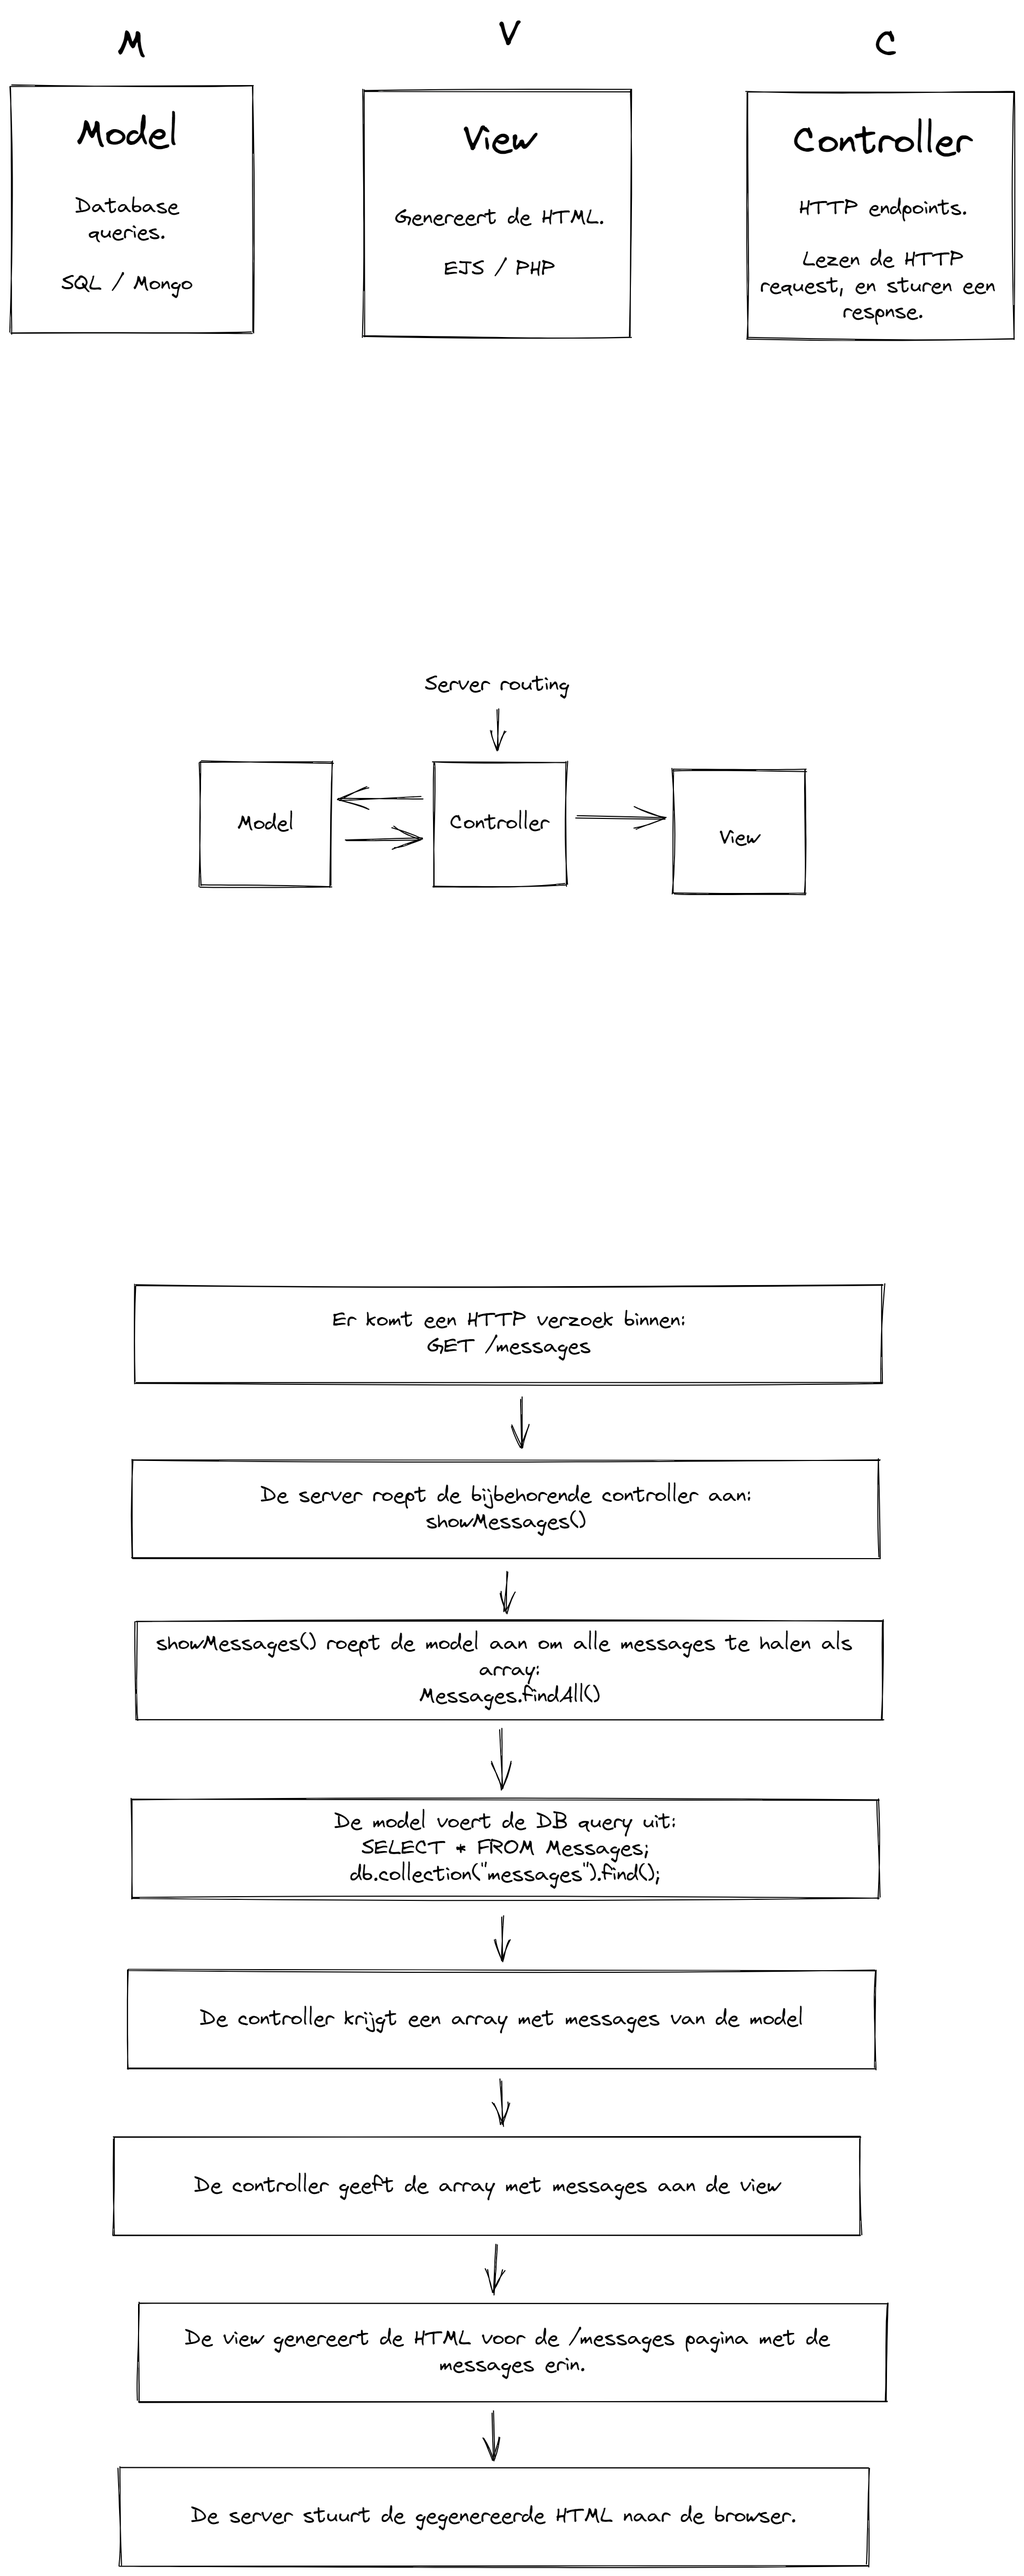
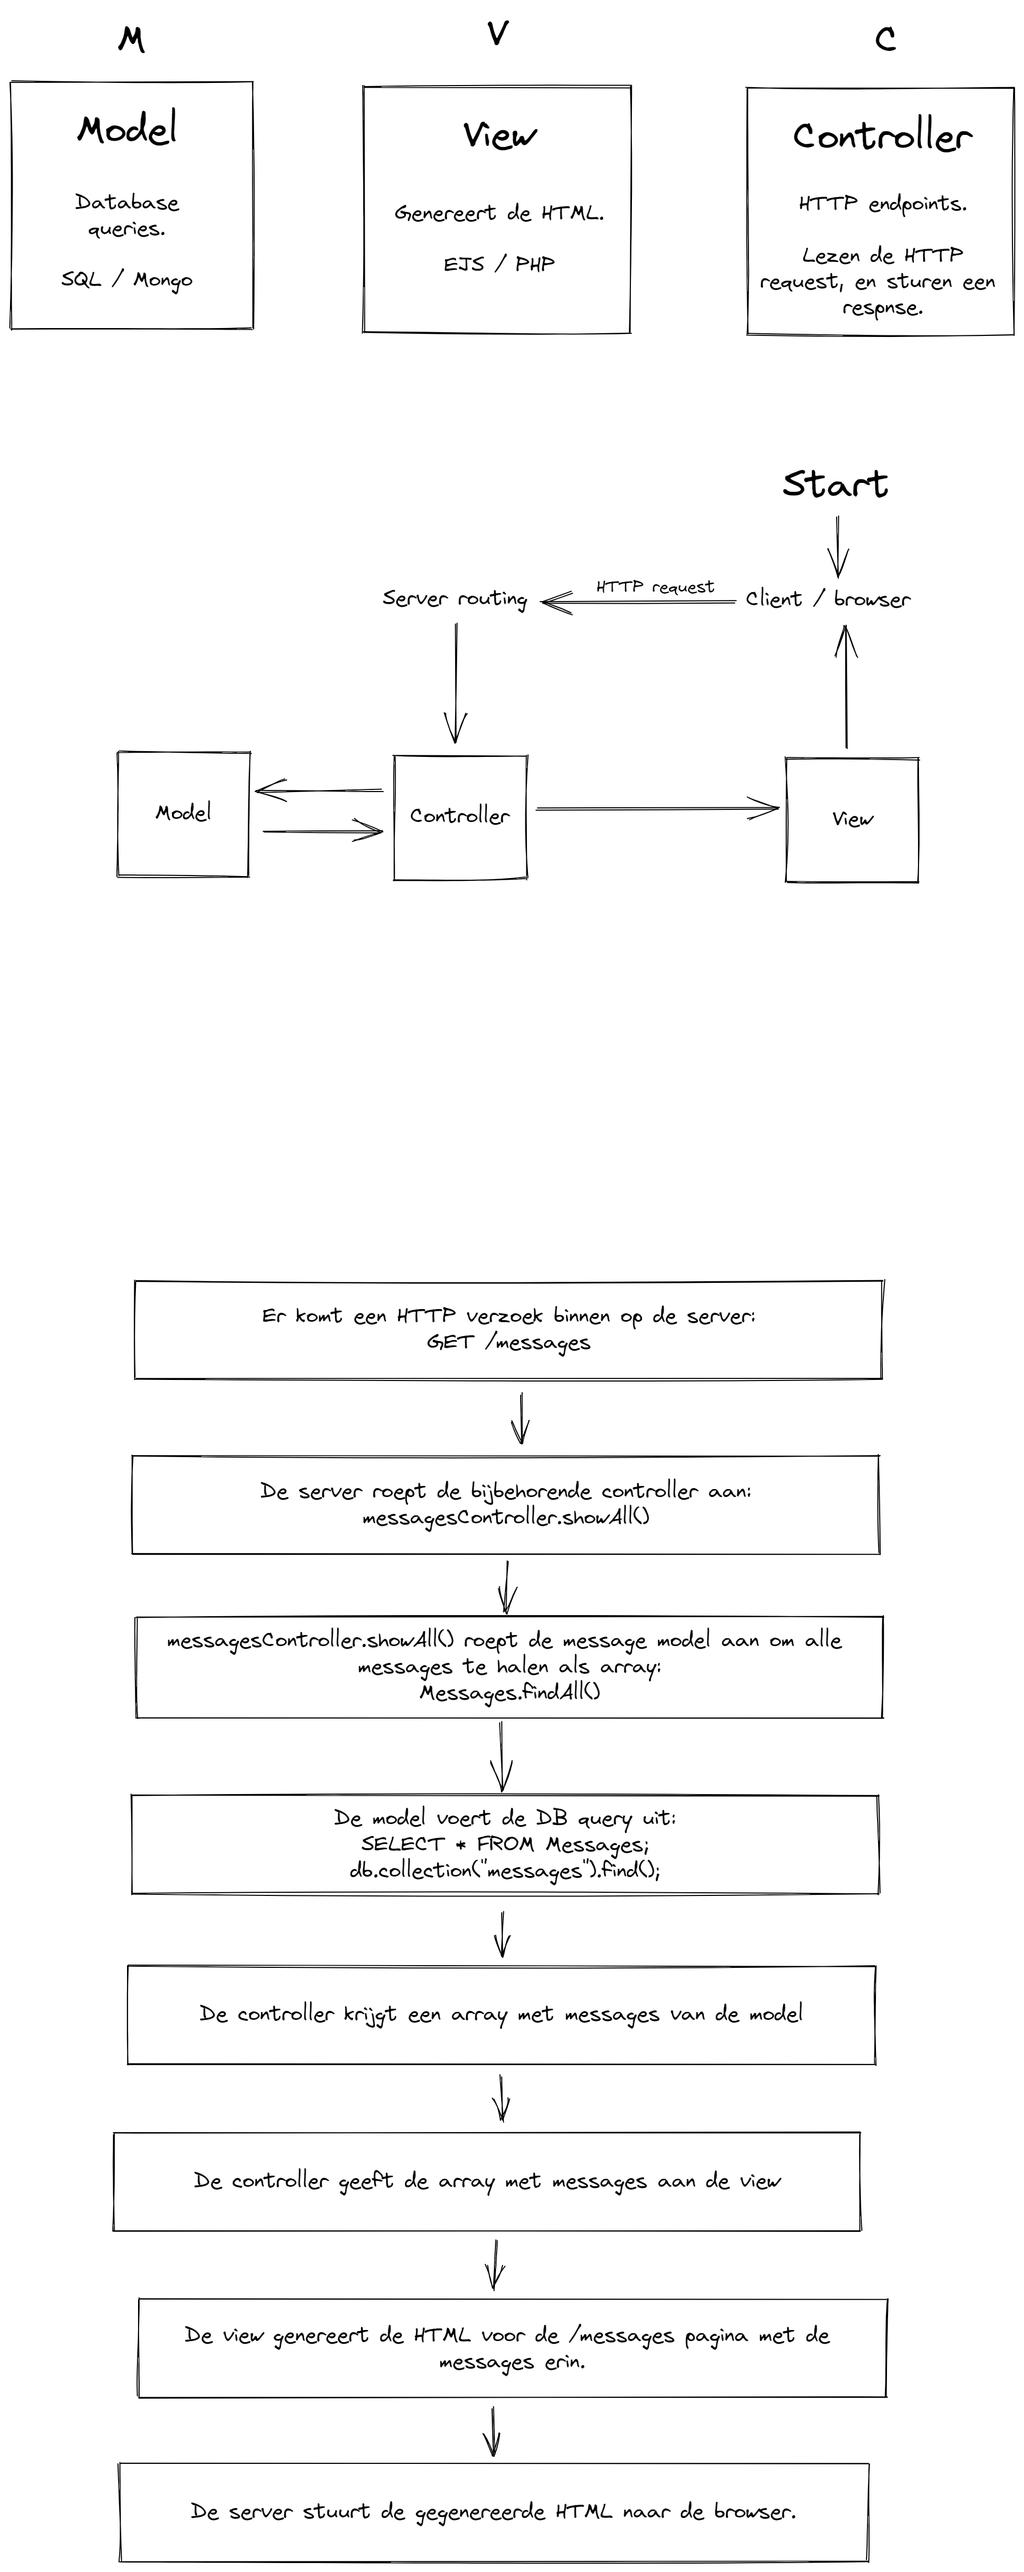
remove pagerouter & update mvc_overzicht diagram

diff --git a/index.js b/index.js
@@ -1,6 +1,5 @@
 const express = require("express");
 const { connectToDb } = require("./db");
-const pageControllers = require("./controllers/pageControllers");
 const messageControllers = require("./controllers/messageControllers");
 
 const app = express();
@@ -14,7 +13,6 @@ app.use(express.urlencoded({ extended: false }));
 
 connectToDb(() => console.log("Connected to database"));
 
-app.get("/", pageControllers.index);
-
+app.get("/", messageControllers.index);
 app.post("/message", messageControllers.create);
 app.get("/message/count", messageControllers.getCount);

diff --git a/controllers/messageControllers.js b/controllers/messageControllers.js
@@ -1,5 +1,10 @@
 const Message = require("../models/messageModel");
 
+async function index(req, res) {
+  const messages = await Message.findAll();
+  res.render("index", { messages });
+}
+
 async function create(req, res) {
   const { username, text } = req.body;
 
@@ -20,6 +25,7 @@ async function getCount(req, res) {
 }
 
 module.exports = {
+  index,
   create,
   getCount,
 };
